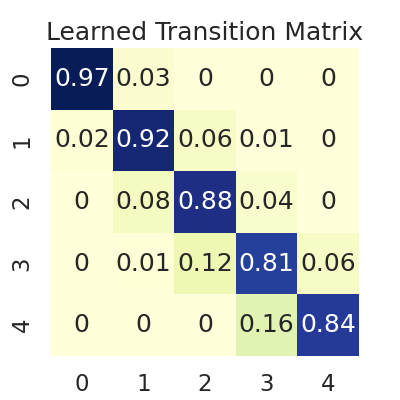
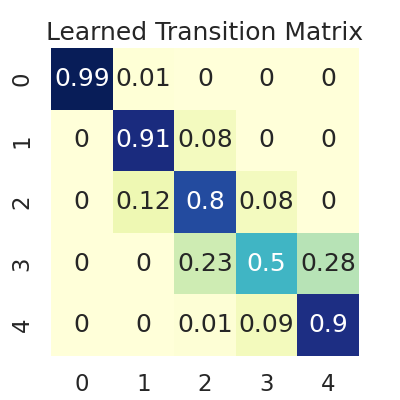
Update

diff --git a/Scripts/HMM_FitSingleModel.py b/Scripts/HMM_FitSingleModel.py
@@ -25,7 +25,7 @@ root = [Path("/ceph/aeon/aeon/data/raw/AEON2/experiment0.2")]
 
 subject_events = api.load(root, exp02.ExperimentalMetadata.SubjectState)
 sessions = visits(subject_events[subject_events.id.str.startswith("BAA-")])
-short_sessions = sessions.iloc[[4,16,17,20,23,24,25,26,28,29,30,31]]
+short_sessions = sessions.iloc[[4,16,17,20,23,24,25,28,29,30,31]]
 long_sessions = sessions.iloc[[8, 10, 11, 14]]
 
 feature = ['smoothed_speed', 'smoothed_acceleration']
@@ -260,7 +260,7 @@ def FitModelsLong(hmm, index, n=8):
 
 def main():
     
-    hmm, index = ShortSessionModel(id = 7, n = 5)
+    hmm, index = ShortSessionModel(id = 5, n = 5)
     FitModelsShort(hmm, index, n = 5)
     
     #hmm, index = LongSessionModel()

diff --git a/Scripts/HMM_States.py b/Scripts/HMM_States.py
@@ -27,10 +27,10 @@ root = [Path("/ceph/aeon/aeon/data/raw/AEON2/experiment0.2")]
 
 subject_events = api.load(root, exp02.ExperimentalMetadata.SubjectState)
 sessions = visits(subject_events[subject_events.id.str.startswith("BAA-")])
-short_sessions = sessions.iloc[[4,16,17,20,23,24,25,26,28,29,30,31]]
+short_sessions = sessions.iloc[[4,16,17,20,23,24,25,28,29,30,31]]
 long_sessions = sessions.iloc[[8, 10, 11, 14]]
 
-feature = ['weight', 'smoothed_speed', 'smoothed_acceleration']
+feature = ['smoothed_speed', 'smoothed_acceleration']
 
 def PlotStatesWithTime(states, mouse_pos, type, N, axs):
     color_names = ["blue","red","yellow", "green","brown","purple","orange","black"]
